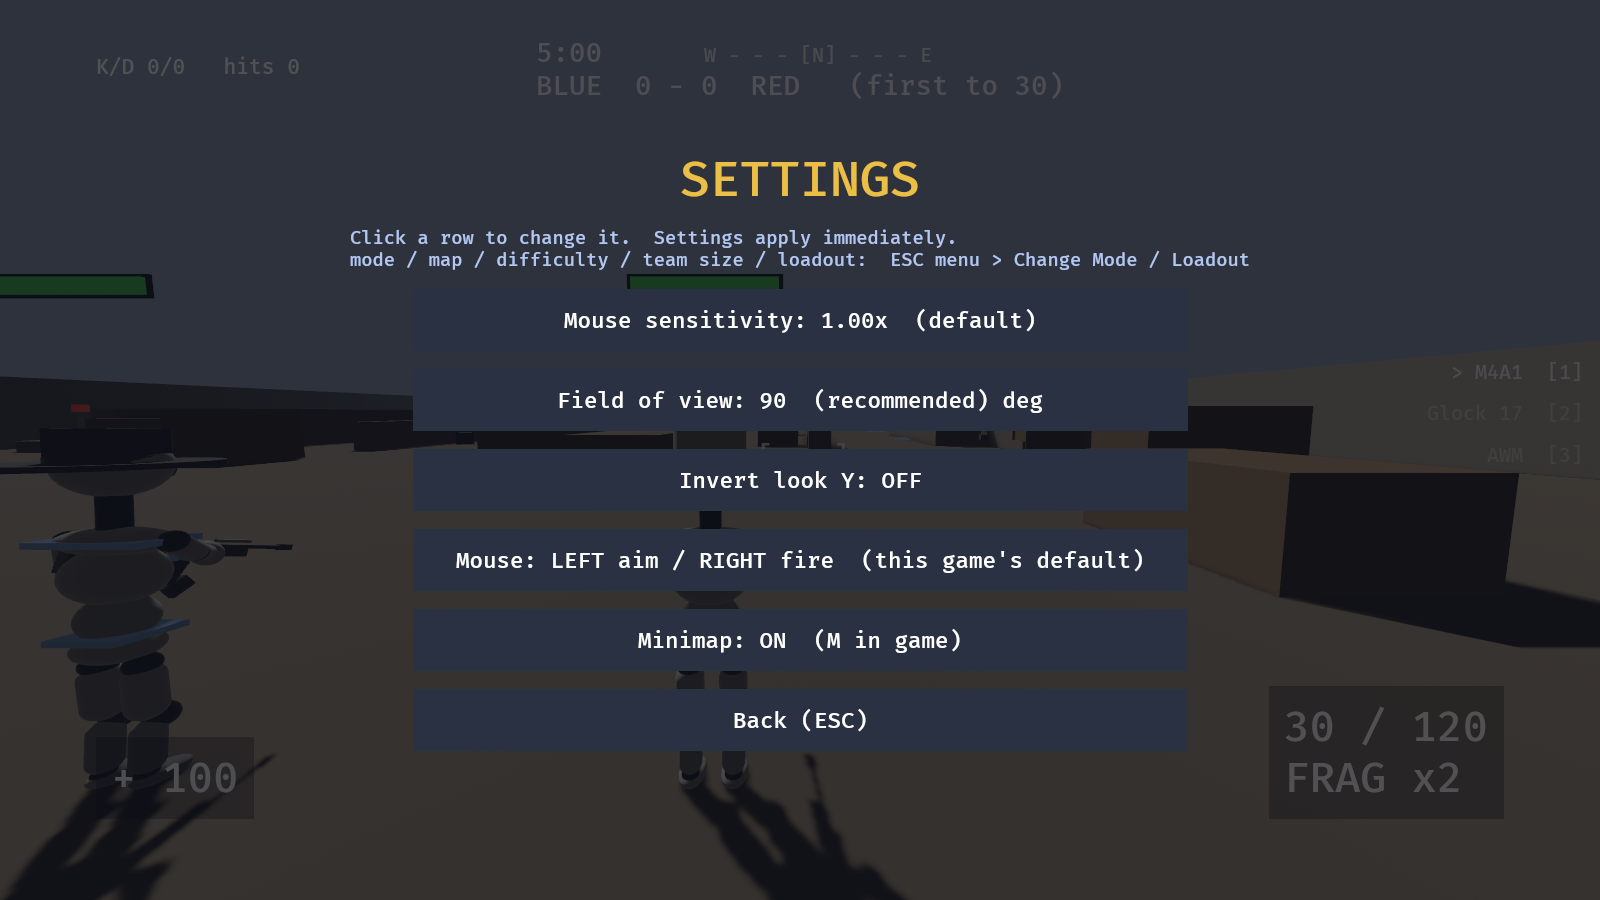
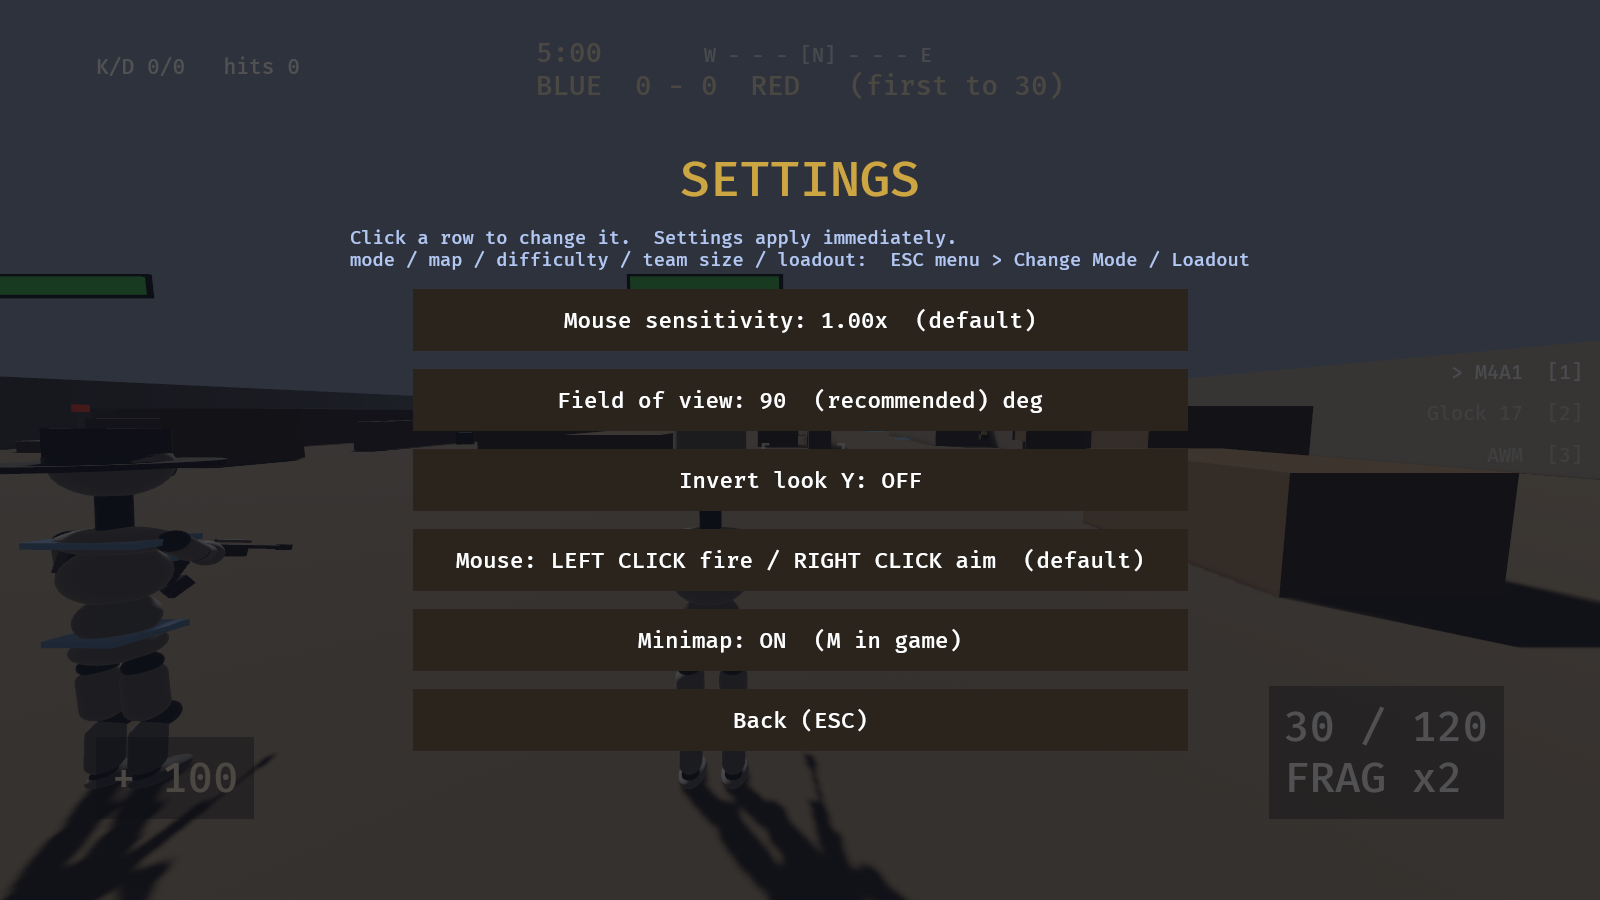
Retheme the UI to the key art - one palette instead of 30 magic literals
The menu ran cool blue-grey chrome with cyan text over warm gold-and-
sepia key art. Once the art was actually on screen the mismatch was
obvious: it read as two different games stapled together.

There were no colour constants at all - every colour in the file was a
magic literal. So this adds `branding::palette`, sampled from the key
art (DUST, SHADOW, GOLD, BRONZE, PLUME, PARCHMENT, PARCHMENT_DIM), and
routes the decorative chrome through it. 30 literals replaced.

THE LINE THIS DELIBERATELY DOES NOT CROSS. Nothing here touches a
colour that carries MEANING: team blue and orange, the HUD's danger
red, the low-health warning, the minimap's friend/foe dots. Those are
signal a player reads under pressure, and retheming them to match a
painting would trade readability for mood. Chrome follows the art;
signal does not. The palette test asserts the decorative PLUME red
stays clearly distinguishable from the HUD's danger red for exactly
this reason - set dressing must never read as a warning.

Changed: the window clear colour (cool blue-grey -> dust), the tech
readout (cyan -> parchment, the single worst clash), menu panels (cool
navy -> warm shadow), four blue-white text colours -> parchment, three
different near-gold yellows collapsed onto ONE canonical GOLD, the
loadout category labels (periwinkle -> bronze), every menu button idle
and hover state, and the shared select-highlight painter - selection
was a flat green fighting the gold palette and is now struck bronze,
[…]

Changed region(s): [[0.25, 0.3111, 0.75, 0.84], [0.4062, 0.1556, 0.5938, 0.2178]]

diff --git a/engine/crates/jk_tdm/src/main.rs b/engine/crates/jk_tdm/src/main.rs
@@ -2804,7 +2804,9 @@ fn main() {
         // splash state, systems and teardown, and skips itself entirely
         // when JK_CAPTURE is set so it never lands in a scripted capture.
         .add_plugins(branding::BrandingPlugin)
-        .insert_resource(ClearColor(Color::srgb(0.58, 0.63, 0.72)))
+        // Sampled from the key art. Was a cool blue-grey, which fought
+        // the warm gold-and-sepia art on every menu screen.
+        .insert_resource(ClearColor(branding::palette::DUST))
         .init_resource::<CamCtl>()
         // R4: loaded once here, held fixed for the whole run - same
         // lifetime as the consts it can override.
@@ -5155,7 +5157,7 @@ fn setup(
                     font_size: 22.0,
                     ..default()
                 },
-                TextColor(Color::srgb(0.95, 0.95, 1.0)),
+                TextColor(branding::palette::PARCHMENT),
                 ScoreTimerText,
             ));
         });
@@ -5195,7 +5197,7 @@ fn setup(
             font_size: 34.0,
             ..default()
         },
-        TextColor(Color::srgb(0.95, 0.85, 0.4)),
+        TextColor(branding::palette::GOLD),
         Node {
             position_type: PositionType::Absolute,
             left: Val::Percent(30.0),
@@ -5272,7 +5274,7 @@ fn setup(
                 padding: UiRect::all(Val::Px(12.0)),
                 ..default()
             },
-            BackgroundColor(Color::srgba(0.04, 0.05, 0.08, 0.5)),
+            BackgroundColor(Color::srgba(0.10, 0.08, 0.06, 0.55)),
         ))
         .with_children(|p| {
             p.spawn((
@@ -5281,7 +5283,7 @@ fn setup(
                     font_size: 34.0,
                     ..default()
                 },
-                TextColor(Color::srgb(0.95, 0.96, 0.98)),
+                TextColor(branding::palette::PARCHMENT),
                 PanelInfoText,
             ));
         });
@@ -5297,7 +5299,7 @@ fn setup(
                 padding: UiRect::all(Val::Px(12.0)),
                 ..default()
             },
-            BackgroundColor(Color::srgba(0.04, 0.05, 0.08, 0.5)),
+            BackgroundColor(Color::srgba(0.10, 0.08, 0.06, 0.55)),
         ))
         .with_children(|p| {
             p.spawn((
@@ -5322,7 +5324,7 @@ fn setup(
                 flex_direction: FlexDirection::Column,
                 ..default()
             },
-            BackgroundColor(Color::srgba(0.04, 0.05, 0.08, 0.88)),
+            BackgroundColor(Color::srgba(0.10, 0.08, 0.06, 0.90)),
             Visibility::Hidden,
             ScoreboardRoot,
         ))
@@ -5434,7 +5436,7 @@ fn setup(
                 height: Val::Px(MINIMAP_PX),
                 ..default()
             },
-            BackgroundColor(Color::srgba(0.04, 0.06, 0.05, 0.72)),
+            BackgroundColor(Color::srgba(0.10, 0.08, 0.06, 0.76)),
             MinimapRoot,
         ))
         .with_children(|p| {
@@ -9694,7 +9696,7 @@ fn open_controls(mut commands: Commands) {
                     font_size: 34.0,
                     ..default()
                 },
-                TextColor(Color::srgb(0.92, 0.75, 0.27)),
+                TextColor(branding::palette::GOLD),
                 Node {
                     margin: UiRect::bottom(Val::Px(16.0)),
                     ..default()
@@ -9711,7 +9713,7 @@ fn open_controls(mut commands: Commands) {
                     font_size: 19.0,
                     ..default()
                 },
-                TextColor(Color::srgb(0.92, 0.93, 0.95)),
+                TextColor(branding::palette::PARCHMENT),
             ));
         });
 }
@@ -9758,7 +9760,7 @@ fn first_run_card(
                         font_size: 20.0,
                         ..default()
                     },
-                    TextColor(Color::srgb(0.95, 0.8, 0.3)),
+                    TextColor(branding::palette::GOLD),
                 ));
                 let mut body = String::new();
                 for b in BIND_REGISTRY.iter().filter(|b| b.essential) {
@@ -9771,7 +9773,7 @@ fn first_run_card(
                         font_size: 16.0,
                         ..default()
                     },
-                    TextColor(Color::srgb(0.9, 0.92, 0.95)),
+                    TextColor(branding::palette::PARCHMENT),
                 ));
             });
         return;
@@ -9858,7 +9860,10 @@ fn pick_row<C: Component + Copy>(
                     font_size: 15.0,
                     ..default()
                 },
-                TextColor(Color::srgb(0.6, 0.7, 0.9)),
+                // category labels: were cool periwinkle against a warm
+                // gold title. Bronze puts them in the same metal family
+                // as the selection they label.
+                TextColor(branding::palette::BRONZE),
                 Node {
                     width: Val::Px(110.0),
                     ..default()
@@ -10004,7 +10009,7 @@ fn open_intro(
             font_size: 15.0,
             ..default()
         },
-        TextColor(Color::srgb(0.62, 0.85, 0.90)),
+        TextColor(branding::palette::PARCHMENT),
         // capped width: the centered mode buttons are 620 wide, so on a
         // 1280-wide window they start around x=330 - an unconstrained
         // readout ran straight underneath them and the two texts
@@ -10026,7 +10031,7 @@ fn open_intro(
             font_size: 19.0,
             ..default()
         },
-        TextColor(Color::srgb(0.95, 0.85, 0.4)),
+        TextColor(branding::palette::GOLD),
         Node {
             position_type: PositionType::Absolute,
             right: Val::Px(18.0),
@@ -10057,7 +10062,7 @@ fn open_intro(
             p.spawn((
                 Text::new("JOHN KINGDOM - ARENA"),
                 TextFont { font_size: 40.0, ..default() },
-                TextColor(Color::srgb(0.92, 0.75, 0.27)),
+                TextColor(branding::palette::GOLD),
             ));
             p.spawn((
                 Text::new("build your LOADOUT - the shield always rides in its own slot (E raises it)\nfull controls: ESC menu > RULES & MANUAL"),
@@ -10124,7 +10129,7 @@ fn open_intro(
             p.spawn((
                 Text::new("\nPICK A MODE TO DEPLOY"),
                 TextFont { font_size: 22.0, ..default() },
-                TextColor(Color::srgb(0.95, 0.85, 0.4)),
+                TextColor(branding::palette::GOLD),
             ));
             for (label, which) in [
                 ("TEAM DEATHMATCH - first to 30", ModeButton::Tdm),
@@ -10146,7 +10151,7 @@ fn open_intro(
                         align_items: AlignItems::Center,
                         ..default()
                     },
-                    BackgroundColor(Color::srgb(0.16, 0.19, 0.26)),
+                    BackgroundColor(Color::srgb(0.17, 0.14, 0.11)),
                 ))
                 .with_children(|b| {
                     b.spawn((
@@ -10196,8 +10201,8 @@ fn intro_buttons(
 ) {
     for (interaction, which, mut bg) in &mut q {
         match interaction {
-            Interaction::Hovered => *bg = BackgroundColor(Color::srgb(0.24, 0.29, 0.40)),
-            Interaction::None => *bg = BackgroundColor(Color::srgb(0.16, 0.19, 0.26)),
+            Interaction::Hovered => *bg = BackgroundColor(Color::srgb(0.30, 0.24, 0.15)),
+            Interaction::None => *bg = BackgroundColor(Color::srgb(0.17, 0.14, 0.11)),
             Interaction::Pressed => {
                 let mode = match which {
                     ModeButton::Tdm => Mode::Tdm,
@@ -10211,13 +10216,23 @@ fn intro_buttons(
 }
 
 /// Shared select-highlight painter for all the pick-rows.
+///
+/// Rethemed to the key art: selection was a flat green that fought the
+/// gold-and-bronze palette, and idle was a cool blue-grey. Selection is
+/// now struck BRONZE — the same metal as the emblem's frame — so the
+/// chosen item reads as part of the same object the title is made of.
+///
+/// One painter drives every pick-row on the loadout screen, which is
+/// why this is a three-line change rather than forty scattered ones.
 fn paint(bg: &mut BackgroundColor, selected: bool, hovered: bool) {
     *bg = BackgroundColor(if selected {
-        Color::srgb(0.20, 0.45, 0.24)
+        // struck bronze, lifted so white label text still reads on it
+        Color::srgb(0.42, 0.31, 0.14)
     } else if hovered {
-        Color::srgb(0.22, 0.30, 0.24)
+        Color::srgb(0.26, 0.21, 0.14)
     } else {
-        Color::srgb(0.14, 0.17, 0.22)
+        // warm shadow, not the old cool slate
+        Color::srgb(0.15, 0.13, 0.11)
     });
 }
 
@@ -10402,7 +10417,7 @@ fn open_menu(
                     font_size: 42.0,
                     ..default()
                 },
-                TextColor(Color::srgb(0.92, 0.75, 0.27)),
+                TextColor(branding::palette::GOLD),
                 Node {
                     margin: UiRect::bottom(Val::Px(18.0)),
                     ..default()
@@ -10427,7 +10442,7 @@ fn open_menu(
                         align_items: AlignItems::Center,
                         ..default()
                     },
-                    BackgroundColor(Color::srgb(0.16, 0.19, 0.26)),
+                    BackgroundColor(Color::srgb(0.17, 0.14, 0.11)),
                 ))
                 .with_children(|b| {
                     b.spawn((
@@ -10482,7 +10497,7 @@ fn open_settings(
                     font_size: 40.0,
                     ..default()
                 },
-                TextColor(Color::srgb(0.92, 0.75, 0.27)),
+                TextColor(branding::palette::GOLD),
             ));
             p.spawn((
                 Text::new("Click a row to change it.  Settings apply immediately.\nmode / map / difficulty / team size / loadout:  ESC menu > Change Mode / Loadout"),
@@ -10533,7 +10548,7 @@ fn open_settings(
                         align_items: AlignItems::Center,
                         ..default()
                     },
-                    BackgroundColor(Color::srgb(0.16, 0.19, 0.26)),
+                    BackgroundColor(Color::srgb(0.17, 0.14, 0.11)),
                 ))
                 .with_children(|b| {
                     let mut e = b.spawn((
@@ -10595,8 +10610,8 @@ fn settings_buttons(
     let mut dirty = false;
     for (interaction, which, mut bg) in &mut q {
         match interaction {
-            Interaction::Hovered => *bg = BackgroundColor(Color::srgb(0.24, 0.29, 0.40)),
-            Interaction::None => *bg = BackgroundColor(Color::srgb(0.16, 0.19, 0.26)),
+            Interaction::Hovered => *bg = BackgroundColor(Color::srgb(0.30, 0.24, 0.15)),
+            Interaction::None => *bg = BackgroundColor(Color::srgb(0.17, 0.14, 0.11)),
             Interaction::Pressed => match which {
                 SettingsButton::SwapMouse => {
                     settings.swap_mouse = !settings.swap_mouse;
@@ -10723,7 +10738,7 @@ fn open_manual(
                     font_size: 30.0,
                     ..default()
                 },
-                TextColor(Color::srgb(0.92, 0.75, 0.27)),
+                TextColor(branding::palette::GOLD),
             ));
             p.spawn((
                 Text::new(manual),
@@ -10753,8 +10768,8 @@ fn menu_buttons(
 ) {
     for (interaction, which, mut bg) in &mut q {
         match interaction {
-            Interaction::Hovered => *bg = BackgroundColor(Color::srgb(0.24, 0.29, 0.40)),
-            Interaction::None => *bg = BackgroundColor(Color::srgb(0.16, 0.19, 0.26)),
+            Interaction::Hovered => *bg = BackgroundColor(Color::srgb(0.30, 0.24, 0.15)),
+            Interaction::None => *bg = BackgroundColor(Color::srgb(0.17, 0.14, 0.11)),
             Interaction::Pressed => match which {
                 MenuButton::Resume => next.set(GameState::Playing),
                 MenuButton::Restart => {

diff --git a/engine/crates/jk_tdm/src/branding.rs b/engine/crates/jk_tdm/src/branding.rs
@@ -29,6 +29,40 @@
 
 use bevy::prelude::*;
 
+// ---- palette ---------------------------------------------------------
+// Sampled from the key art so the UI and the art are the same world.
+// The menu previously ran cool blue-grey chrome with cyan text over
+// warm gold-and-sepia art, which read as two different games stapled
+// together.
+//
+// **Decorative only.** Nothing here touches a colour that carries
+// MEANING — team blue and orange, danger red, low-health warning,
+// the minimap's friend/foe dots. Those are semantics a player reads
+// under pressure, and retheming them to match a painting would trade
+// readability for mood. That is the line: chrome follows the art,
+// signal does not.
+pub mod palette {
+    use bevy::prelude::Color;
+
+    /// Dusty amber haze — the key art's ground and sky.
+    pub const DUST: Color = Color::srgb(0.72, 0.62, 0.45);
+    /// Deep shadowed brown for panels and pills, replacing the old
+    /// cool navy `srgba(0.04, 0.05, 0.08, ..)`.
+    pub const SHADOW: Color = Color::srgb(0.10, 0.08, 0.06);
+    /// Antique gold — the laurel, the eagle, the emblem's frame. The
+    /// primary accent and the colour of anything selected.
+    pub const GOLD: Color = Color::srgb(0.80, 0.65, 0.26);
+    /// Struck bronze, for secondary rules and inactive accents.
+    pub const BRONZE: Color = Color::srgb(0.55, 0.42, 0.22);
+    /// The legionaries' plume. An accent, NOT the danger red — the HUD
+    /// keeps its own brighter red for damage so the two never confuse.
+    pub const PLUME: Color = Color::srgb(0.62, 0.13, 0.11);
+    /// Parchment — body text on dark ground. Warm, not the old blue-white.
+    pub const PARCHMENT: Color = Color::srgb(0.93, 0.89, 0.80);
+    /// Muted parchment for secondary/inactive text.
+    pub const PARCHMENT_DIM: Color = Color::srgb(0.68, 0.63, 0.55);
+}
+
 // ---- timings ---------------------------------------------------------
 // A splash is a promise about how long the player waits. These are the
 // whole contract, in one place.
@@ -464,6 +498,75 @@ mod tests {
         assert!(
             Z_EMBLEM_MARK < 40,
             "the mark must render beneath every HUD cluster"
+        );
+    }
+
+    /// The palette must actually be the key art's palette — warm, and
+    /// legible in the pairings the UI really uses.
+    ///
+    /// Asserts RELATIONSHIPS, not hex values, so the palette can be
+    /// re-sampled from new art without rewriting the test. What it
+    /// pins is the reason the palette exists: the old chrome was COOL
+    /// (blue channel dominant) over warm art, and that is the specific
+    /// mistake that must not come back.
+    #[test]
+    fn the_palette_is_warm_and_readable() {
+        use palette::*;
+        let rgb = |c: Color| {
+            let s = c.to_srgba();
+            (s.red, s.green, s.blue)
+        };
+
+        // 1. WARM: every ground/accent colour must have more red than
+        //    blue. The palette this replaced ran srgb(0.58,0.63,0.72) -
+        //    blue-dominant - against gold-and-sepia art.
+        for (name, c) in [
+            ("DUST", DUST),
+            ("GOLD", GOLD),
+            ("BRONZE", BRONZE),
+            ("PLUME", PLUME),
+            ("PARCHMENT", PARCHMENT),
+            ("PARCHMENT_DIM", PARCHMENT_DIM),
+            ("SHADOW", SHADOW),
+        ] {
+            let (r, _, b) = rgb(c);
+            assert!(
+                r > b,
+                "{name} is cool (r={r:.2} <= b={b:.2}) - the whole point of \
+                 this palette is that the chrome stops fighting warm art"
+            );
+        }
+
+        // 2. READABLE: text on its intended ground must actually
+        //    separate. Rough relative luminance is enough to catch a
+        //    palette edit that makes body text vanish into a panel.
+        let lum = |c: Color| {
+            let (r, g, b) = rgb(c);
+            0.2126 * r + 0.7152 * g + 0.0722 * b
+        };
+        assert!(
+            lum(PARCHMENT) - lum(SHADOW) > 0.5,
+            "parchment on shadow has too little contrast to read"
+        );
+        assert!(
+            lum(GOLD) - lum(SHADOW) > 0.25,
+            "gold on shadow has too little contrast for a selected item"
+        );
+        assert!(
+            lum(PARCHMENT) > lum(PARCHMENT_DIM),
+            "the dim variant must actually be dimmer than the primary"
+        );
+
+        // 3. The accent PLUME must stay distinguishable from the HUD's
+        //    danger red, which is deliberately NOT in this palette.
+        //    A decorative red that reads as a warning is a real hazard.
+        let hud_danger = Color::srgb(1.0, 0.25, 0.2);
+        let (pr, _, _) = rgb(PLUME);
+        let (dr, _, _) = rgb(hud_danger);
+        assert!(
+            dr - pr > 0.25,
+            "the decorative plume red is too close to the HUD's danger red - \
+             a player could read set dressing as a warning"
         );
     }
 
